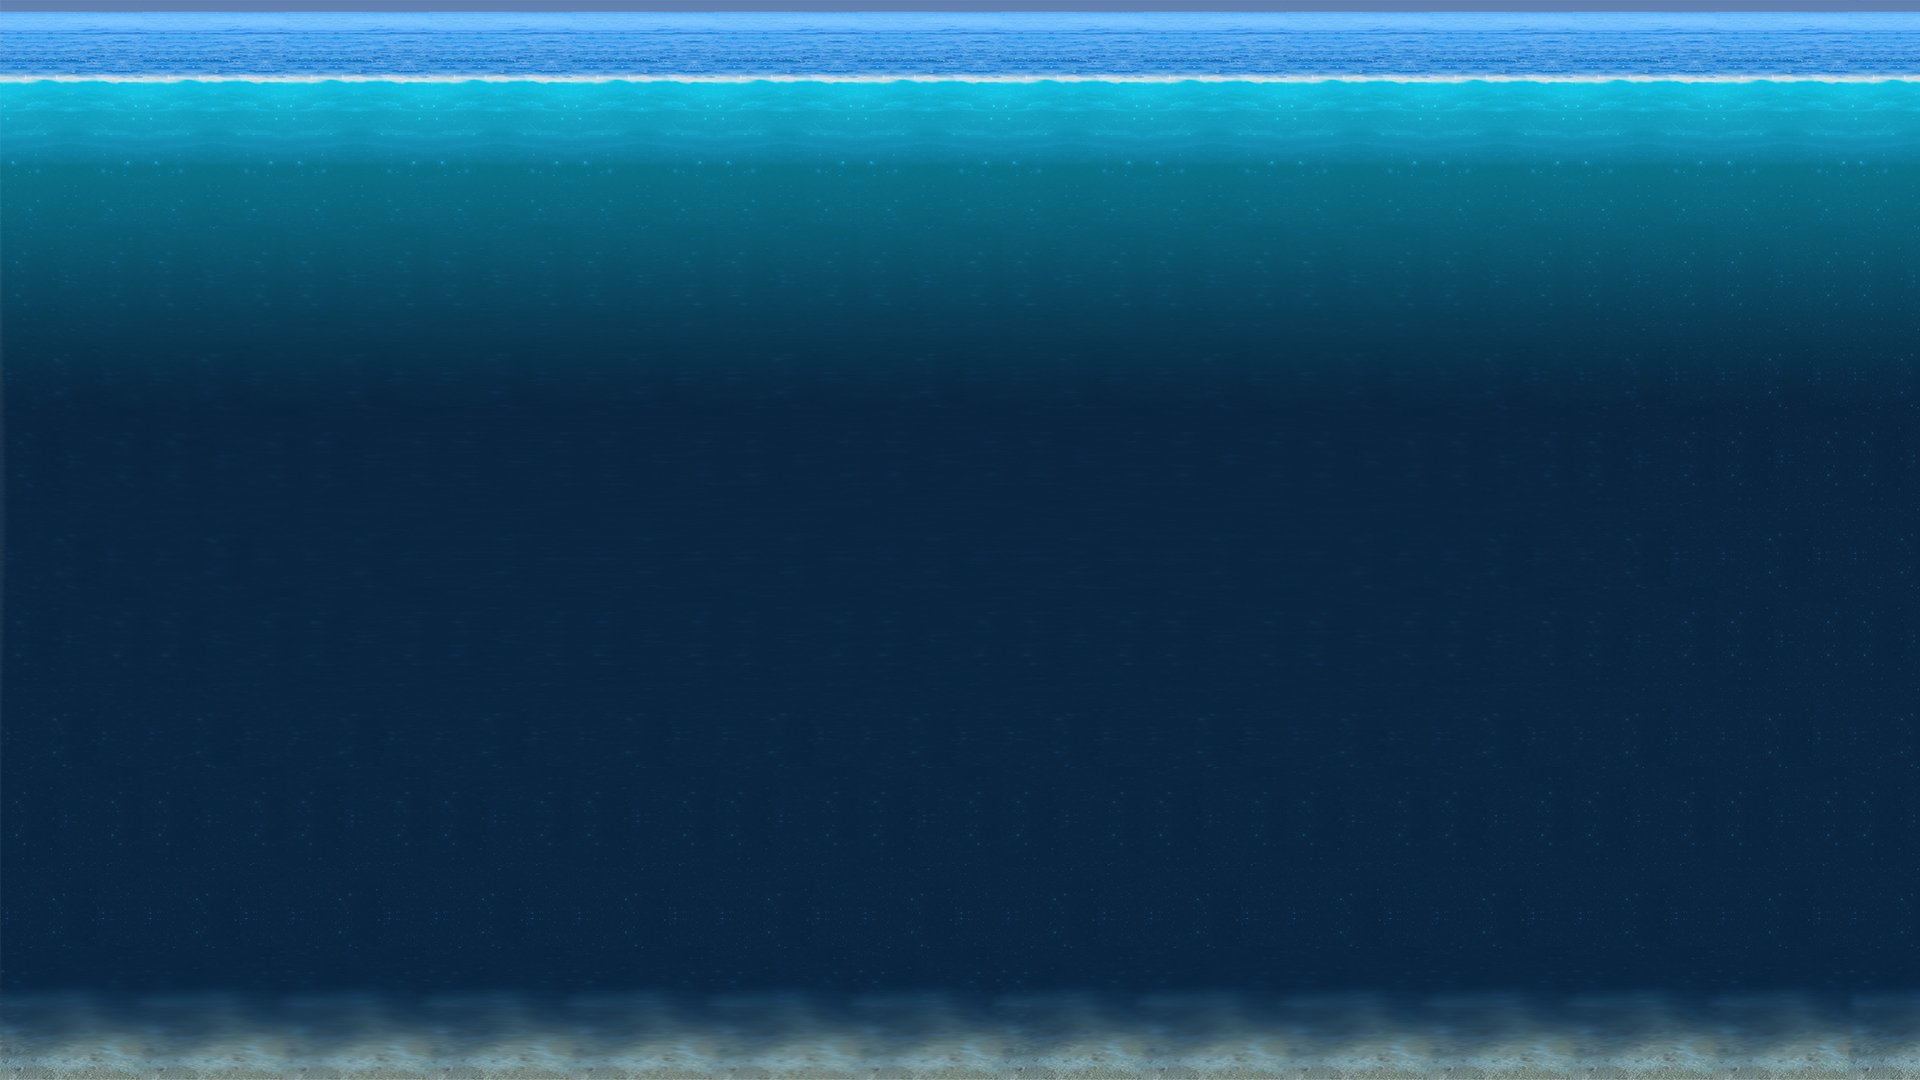
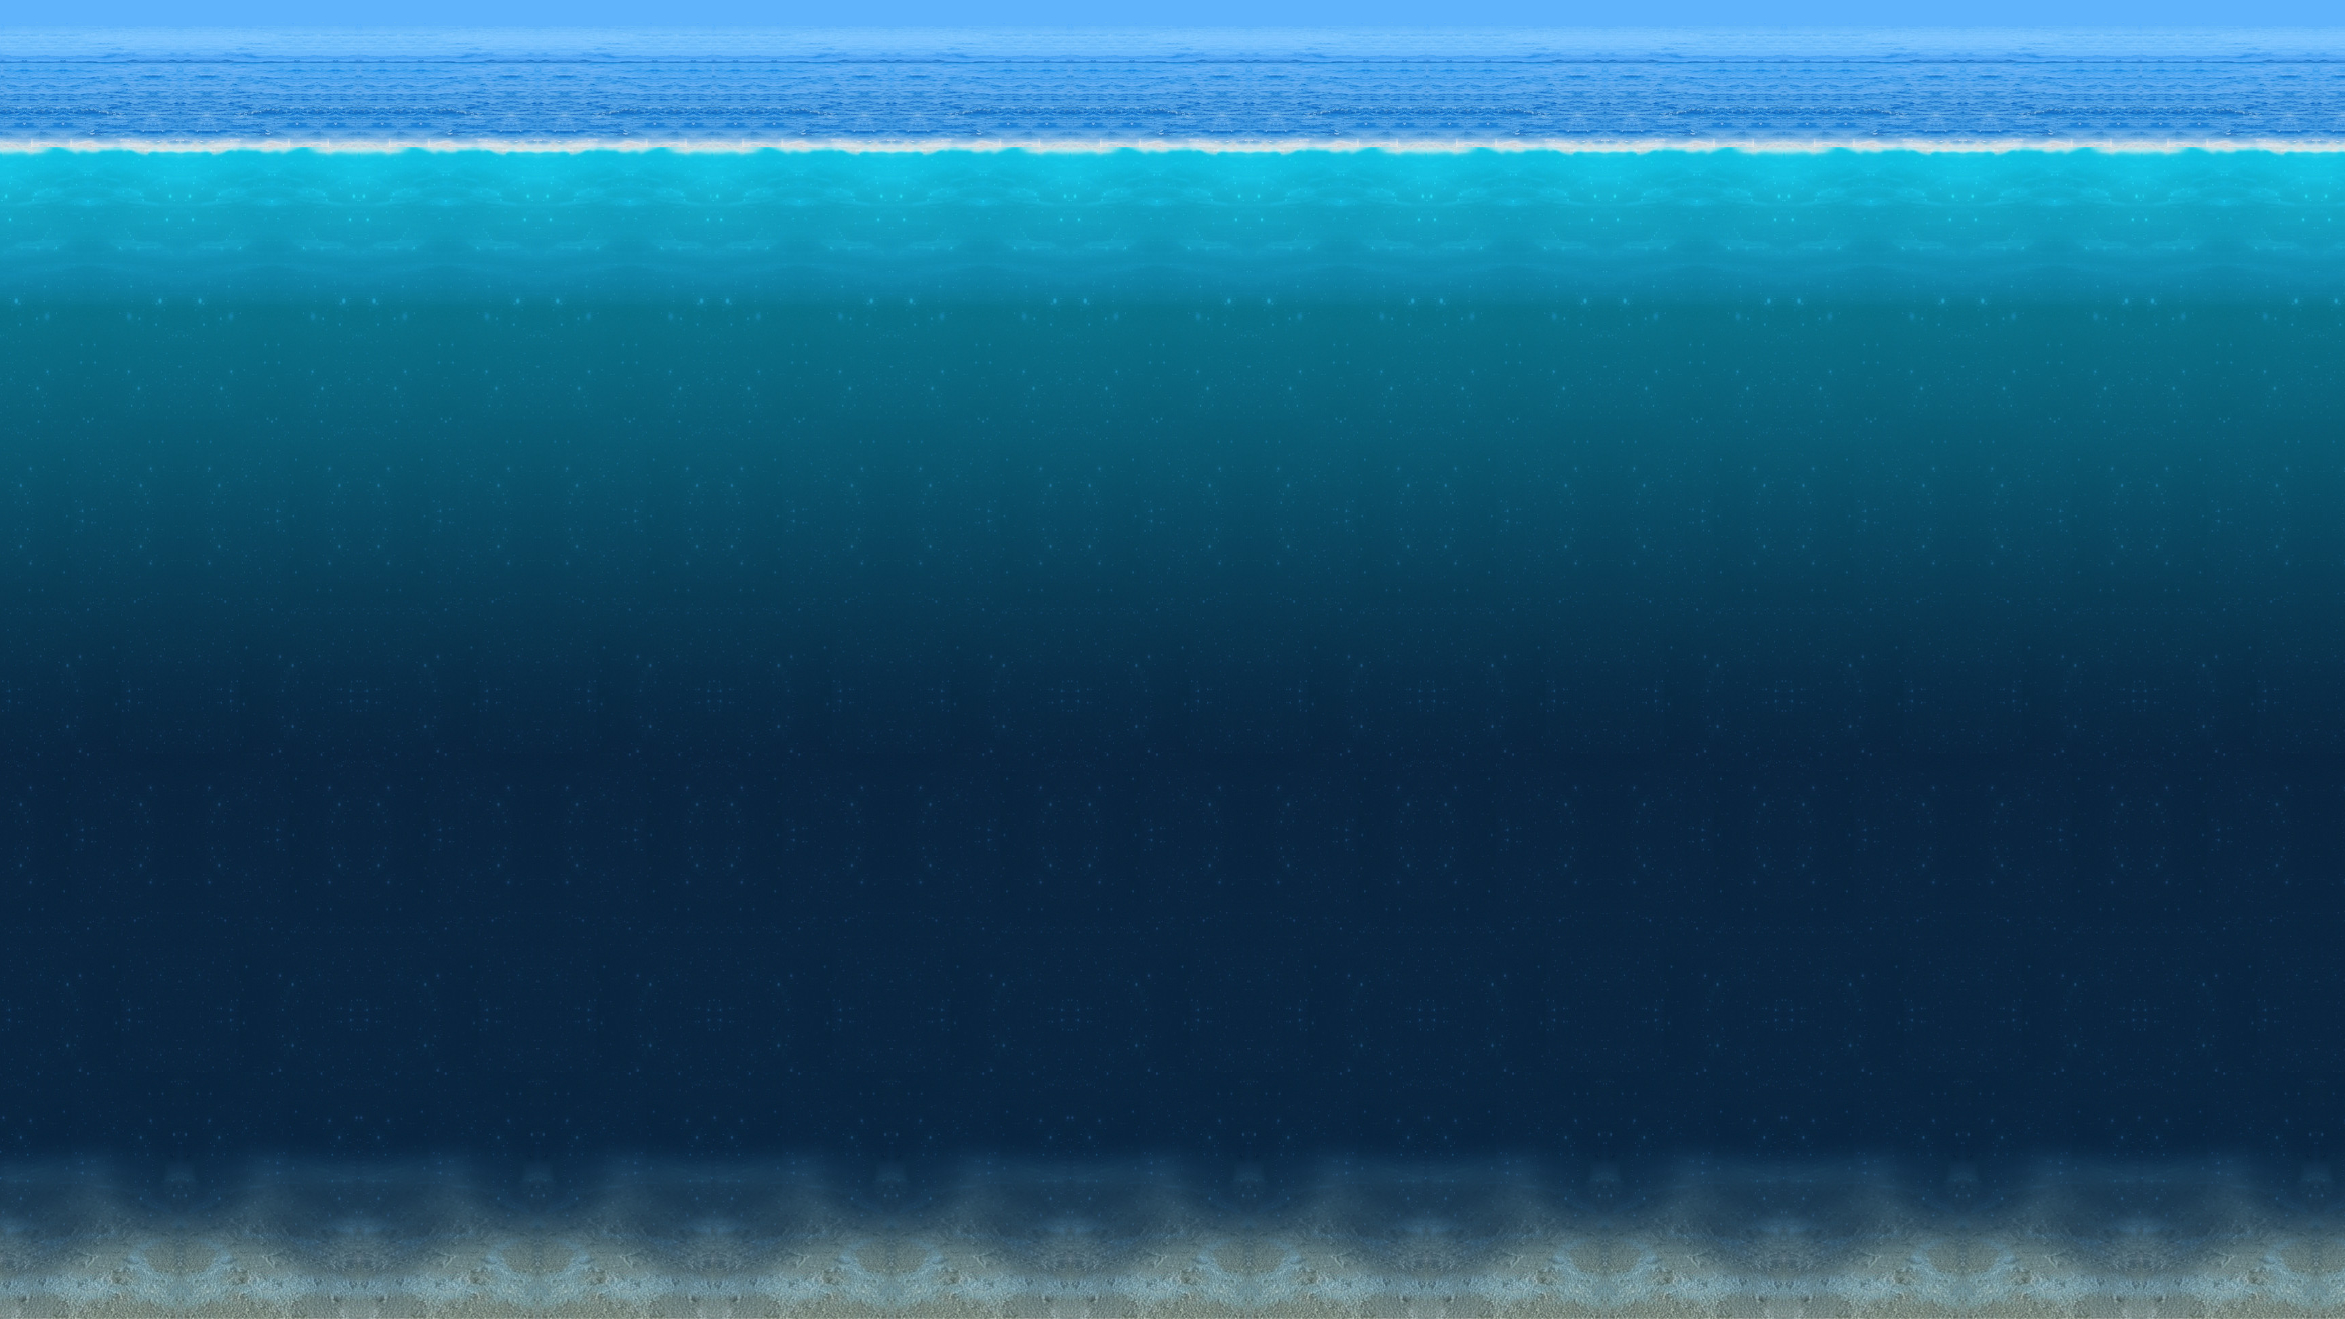
Changes for https support

diff --git a/components/app-info.vue b/components/app-info.vue
@@ -83,13 +83,13 @@ export default {
   },
   beforeMount() {
     this.fetchComics()
-    this.fetchChapters(this.stub)
+    this.fetchChapters()
     setInterval(this.fetchChapters, 600000)
   },
   methods: {
     fetchComics() {
       this.$axios
-        .get(`http://${process.env.BACK_END_HOST}:${process.env.PORT}/comics`)
+        .get(`${process.env.BACK_END_HOST}:${process.env.PORT}/comics`)
         .then(({ data }) => {
           this.comics = data.map((comic) => ({
             id: comic.id,
@@ -99,11 +99,11 @@ export default {
           this.loading = false
         })
     },
-    fetchChapters(stub) {
-      const stubQuery = this.stub ? `&stub=${stub}` : ''
+    fetchChapters() {
+      const stubQuery = this.stub ? `&stub=${this.stub}` : ''
       this.$axios
         .get(
-          `http://${process.env.BACK_END_HOST}:${process.env.PORT}/chapters?size=8${stubQuery}`
+          `${process.env.BACK_END_HOST}:${process.env.PORT}/chapters?size=8${stubQuery}`
         )
         .then(({ data }) => {
           this.chapters = data

diff --git a/components/app-chat/app-chat.vue b/components/app-chat/app-chat.vue
@@ -38,11 +38,13 @@
 </template>
 
 <script>
+import AppChatForm from '@/components/app-chat/app-chat-form.vue'
 import AppChatContent from '@/components/app-chat/app-chat-content.vue'
+import AppChatSendBox from '@/components/app-chat/app-chat-send-box.vue'
 
 export default {
   name: 'AppChat',
-  components: { AppChatContent },
+  components: { AppChatForm, AppChatContent, AppChatSendBox },
   props: {
     isChat: {
       type: Boolean,
@@ -133,7 +135,7 @@ export default {
     },
     fetchMessages() {
       this.$axios
-        .get(`http://${process.env.BACK_END_HOST}:${process.env.PORT}/messages`)
+        .get(`${process.env.BACK_END_HOST}:${process.env.PORT}/messages`)
         .then(
           ({ data }) =>
             (this.messages = data.map((message) => ({

diff --git a/components/app-feed.vue b/components/app-feed.vue
@@ -57,9 +57,8 @@ export default {
   data() {
     return {
       fb: null,
-      pageId: 'Wanted-Team-1219982108141916',
-      token:
[1 lines of base64/hex data omitted]
+      pageId: process.env.FACEBOOK_PAGE_ID,
+      token: process.env.FACEBOOK_TOKEN,
       posts: [],
       isTimeoutActive: false,
     }
@@ -68,6 +67,9 @@ export default {
     appFeedOpacity() {
       return this.$vuetify.theme.isDark ? 'opacity: 0.7;' : ''
     },
+  },
+  updated() {
+    this.resizeFbPagePlugin()
   },
   mounted() {
     window.onresize = this.resizeFbPagePlugin

diff --git a/nuxt.config.js b/nuxt.config.js
@@ -124,11 +124,15 @@ export default {
     },
   },
   env: {
-    SOCKET_HOST: 'localhost',
-    PORT: 3002,
-    BACK_END_HOST: 'localhost',
-    // SOCKET_HOST: '68.66.226.86', // production
-    // PORT: 30002, // production
-    // BACK_END_HOST: '68.66.226.86', // production
+    // SOCKET_HOST: 'http://localhost',
+    // PORT: 3002,
+    // BACK_END_HOST: 'http://localhost',
+    // SOCKET_SECURE: false,
+    SOCKET_HOST: 'https://onepiecenakama.pl', // production
+    PORT: 30002, // production
+    BACK_END_HOST: 'https://onepiecenakama.pl', // production
+    SOCKET_SECURE: true, // production
+    FACEBOOK_TOKEN: 'FACEBOOK_TOKEN',
+    FACEBOOK_PAGE_ID: 'FACEBOOK_PAGE_ID',
   },
 }

diff --git a/components/app-navigation-drawer.vue b/components/app-navigation-drawer.vue
@@ -2,12 +2,9 @@
   <v-navigation-drawer :value="value" absolute temporary @input="onInput">
     <v-list>
       <v-list-item link nuxt to="/">Aktualności</v-list-item>
-      <v-list-item href="http://forum.onepiecenakama.pl/" link target="_blank"
+      <v-list-item href="https://forum.onepiecenakama.pl/" link target="_blank"
         >Forum</v-list-item
       >
-      <v-list-item>Anime</v-list-item>
-      <v-list-item>Artykuły</v-list-item>
-      <v-list-item>Konkursy</v-list-item>
       <v-list-item
         link
         href="https://discord.com/channels/152793335852040192/152793335852040192"

diff --git a/layouts/default.vue b/layouts/default.vue
@@ -32,7 +32,7 @@
             <template v-slot:extension>
               <app-button-nav>Aktualności</app-button-nav>
               <app-button-nav
-                href="http://forum.onepiecenakama.pl/"
+                href="https://forum.onepiecenakama.pl/"
                 target="_blank"
                 >Forum</app-button-nav
               >
@@ -133,7 +133,7 @@ export default {
         backgroundImage: this.$vuetify.theme.dark
           ? 'none'
           : 'url(/background.jpg)',
-        backgroundSize: 'contain',
+        backgroundSize: 'cover',
       }
     },
   },

diff --git a/plugins/socket-io.js b/plugins/socket-io.js
@@ -1,6 +1,7 @@
 import Vue from 'vue'
 import io from 'socket.io-client'
 
-Vue.prototype.$socket = io(
-  `http://${process.env.SOCKET_HOST}:${process.env.PORT}`
-)
+Vue.prototype.$socket = io(`${process.env.SOCKET_HOST}:${process.env.PORT}`, {
+  transports: ['websocket'],
+  secure: process.env.SOCKET_SECURE,
+})
